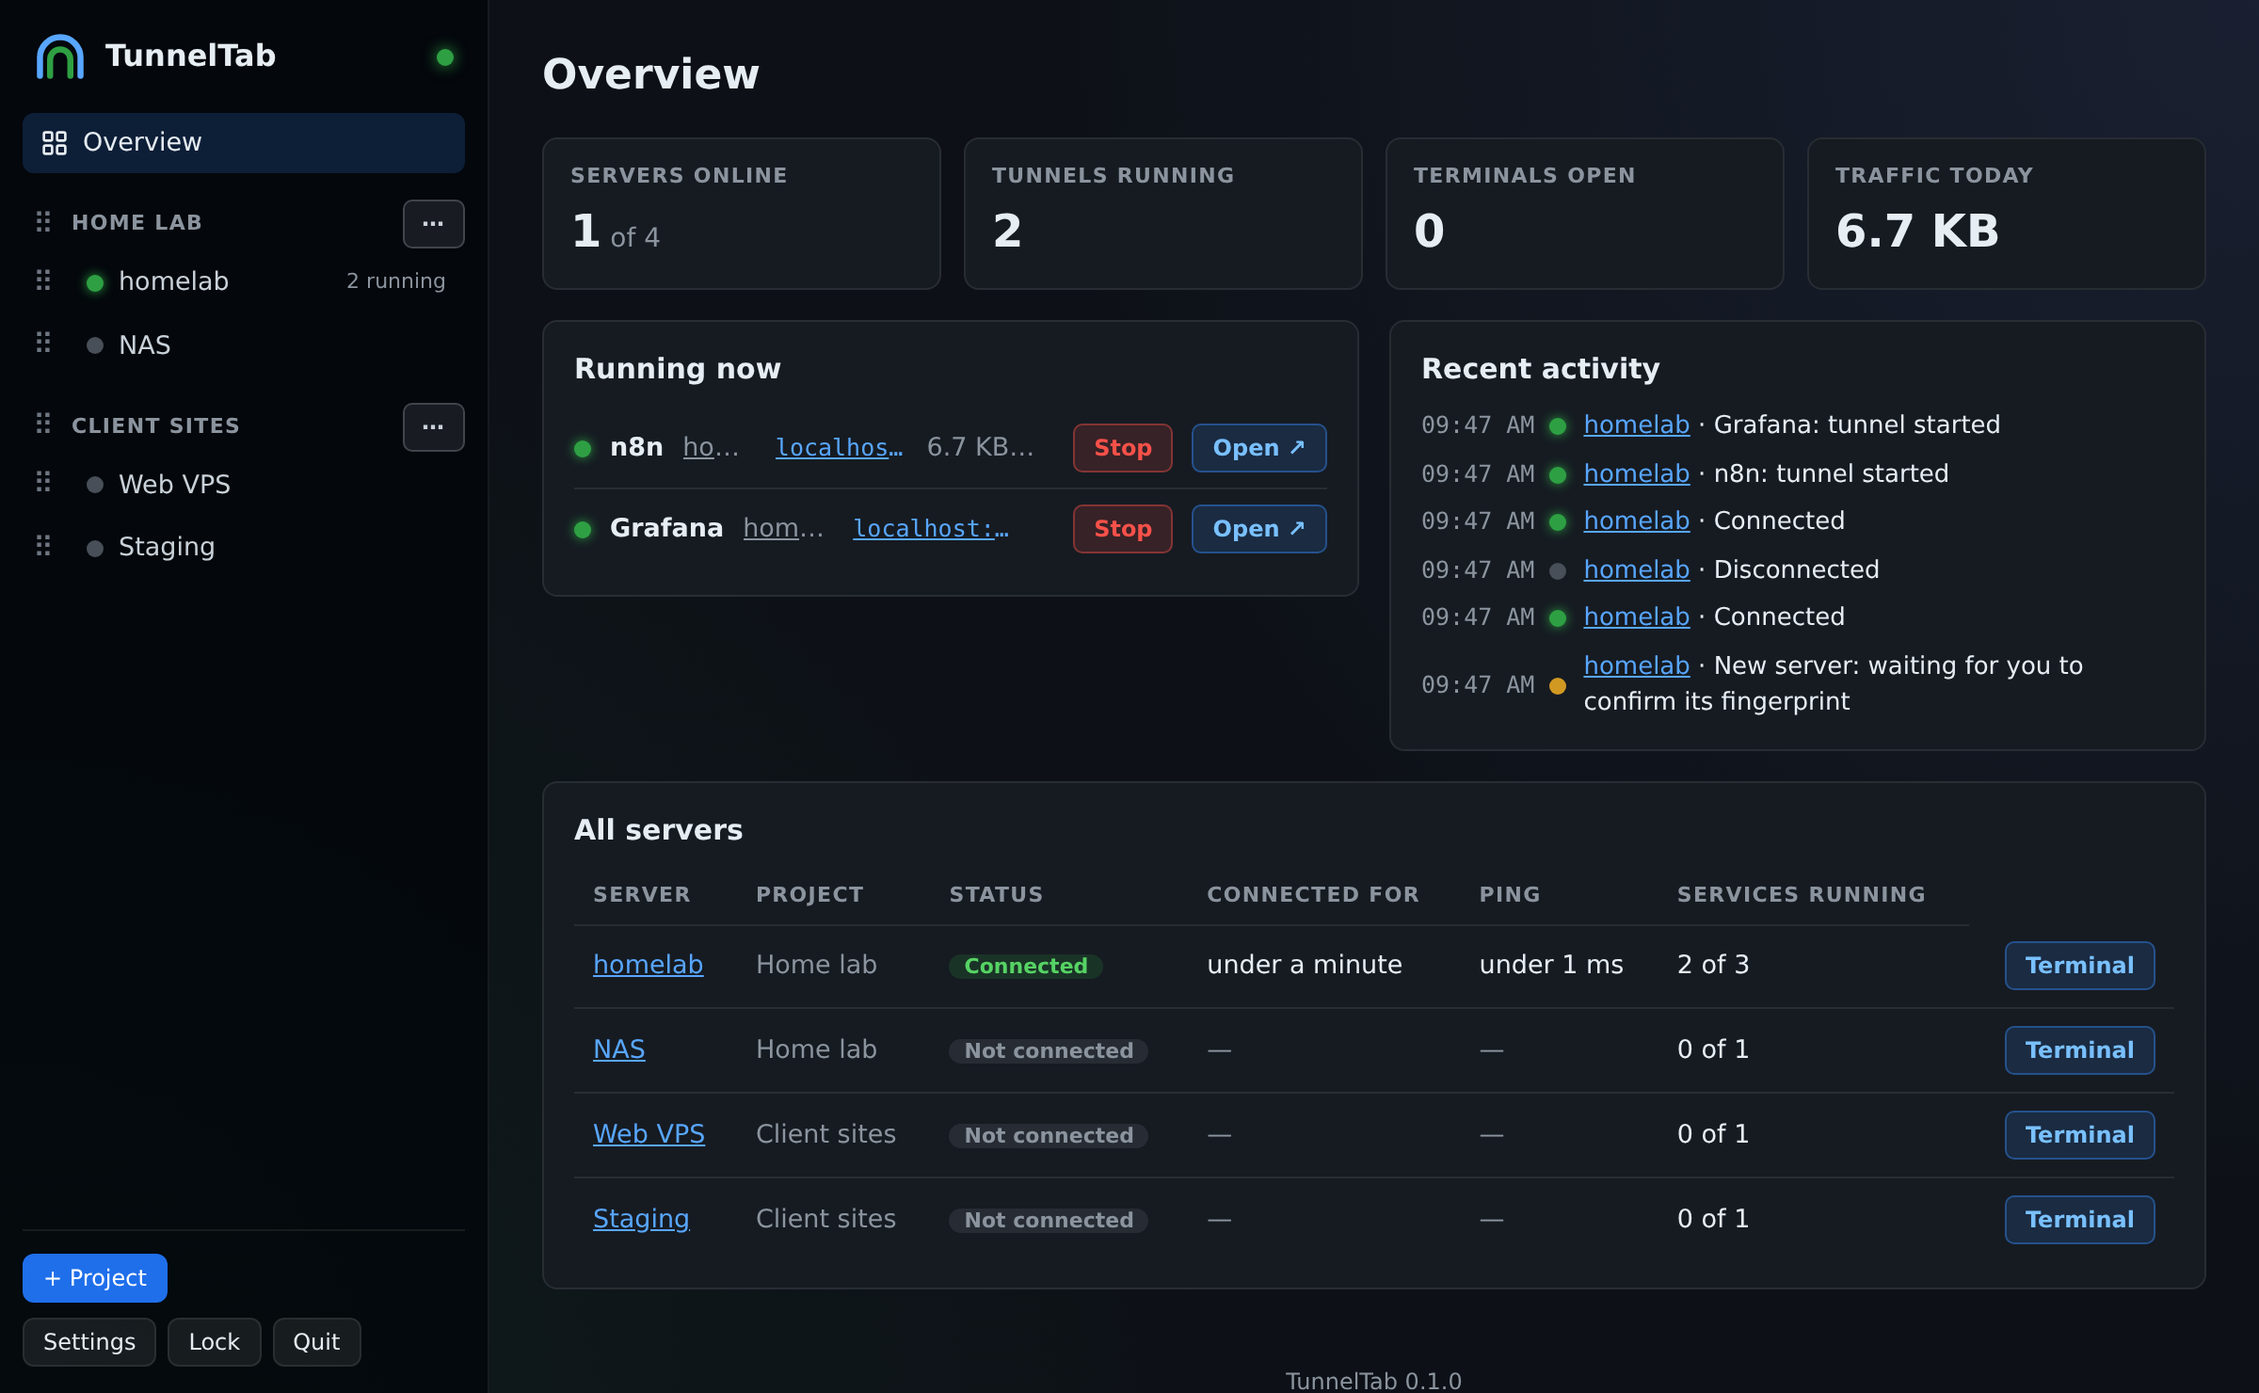
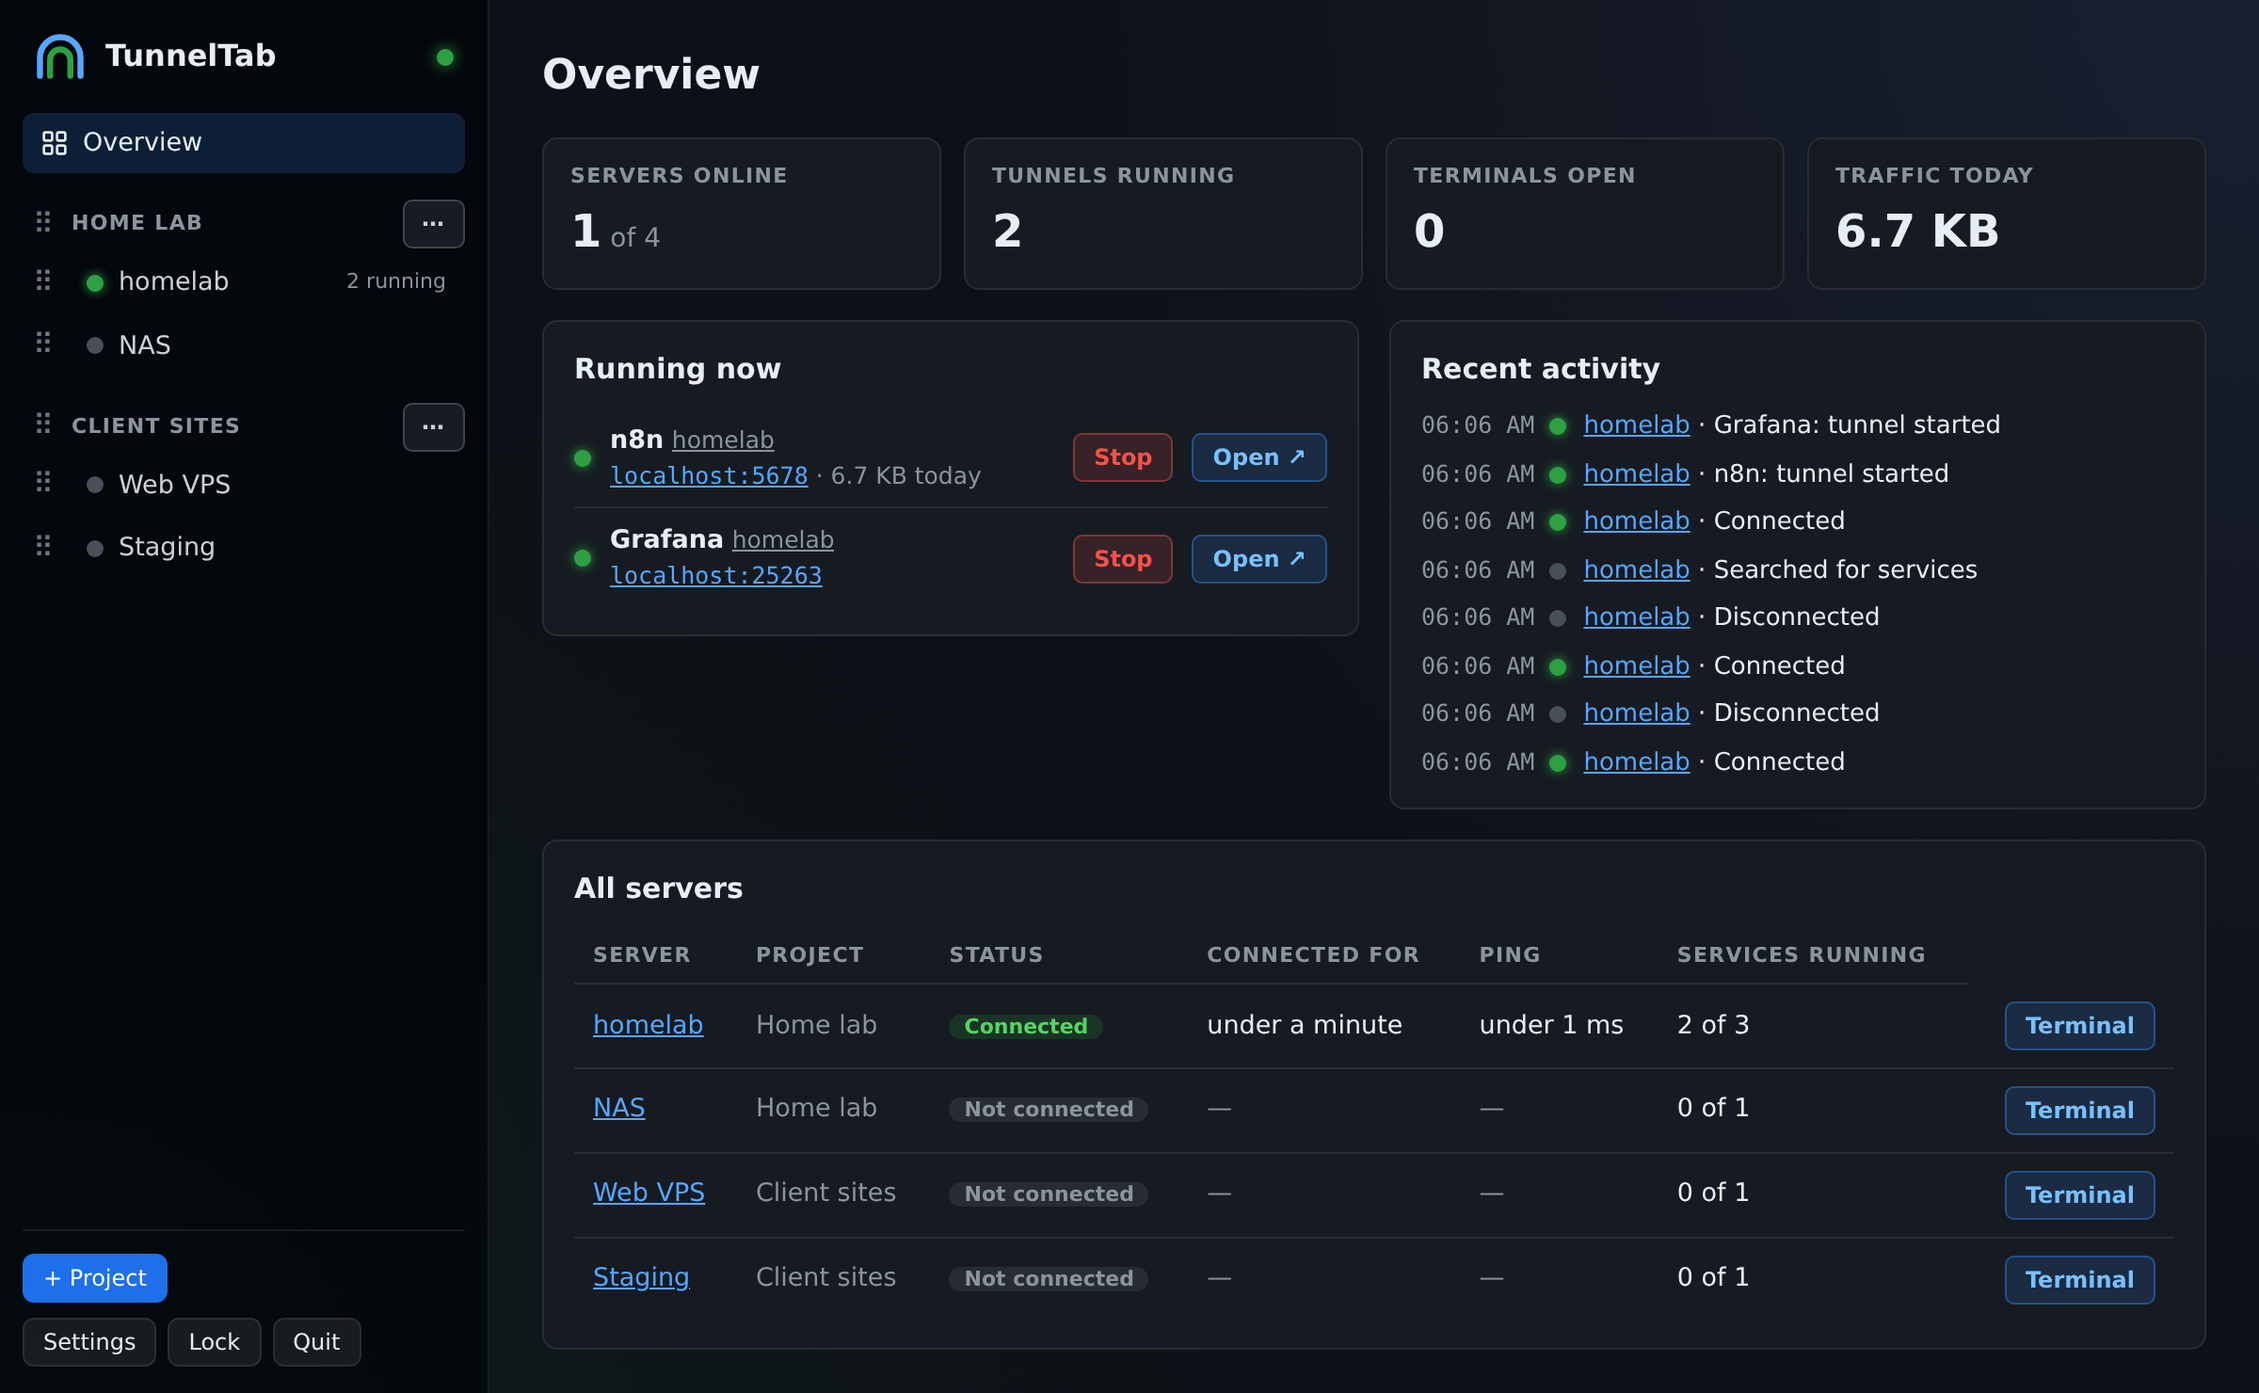
Refresh the README and fix the Running now rows
README: current screenshots (0.6.0, Find services added; extras folded
away), nine feature cards, health row in the security table matches
Connect. The screenshot script takes the version from CHANGELOG.md and
adds Grafana and Portainer through Find services.

Overview -> Running now shows the address and traffic on a second line
instead of cutting them off.

diff --git a/tests/e2e/readme-shots.js b/tests/e2e/readme-shots.js
@@ -40,8 +40,10 @@ function start(cmd, args) {
 (async () => {
   const tmp = fs.mkdtempSync(path.join(os.tmpdir(), "tunneltab-shots-"));
   const exe = process.platform === "win32" ? ".exe" : "";
+  // Shown in the footer: the latest released version in CHANGELOG.md.
+  const version = fs.readFileSync(path.join(repo, "CHANGELOG.md"), "utf8").match(/^## \[(\d+\.\d+\.\d+)\]/m)[1];
   for (const [out, pkg] of [["tunneltab", "./cmd/tunneltab"], ["fakessh", "./internal/devtools/fakessh"]]) {
-    execFileSync("go", ["build", "-ldflags", "-X main.version=0.1.0", "-o", path.join(tmp, out + exe), pkg], { cwd: repo, stdio: "inherit" });
+    execFileSync("go", ["build", "-ldflags", "-X main.version=" + version, "-o", path.join(tmp, out + exe), pkg], { cwd: repo, stdio: "inherit" });
   }
   const fake = start(path.join(tmp, "fakessh" + exe), ["-demo", "-port", "2222"]);
   const [, webPort] = await fake.waitFor(/remote port (\d+)/);
@@ -77,14 +79,12 @@ function start(cmd, args) {
     const web = await call("POST", "/servers", { projectId: clients.id, name: "Web VPS", host: "vps1.example.com", port: 22, username: "deploy", auth: { type: "keyFile", keyPath: "keys/web-vps_ed25519" } });
     const staging = await call("POST", "/servers", { projectId: clients.id, name: "Staging", host: "staging.example.com", port: 2200, username: "deploy", auth: { type: "agent" } });
     const n8n = await call("POST", "/services", { serverId: homelab.id, label: "n8n", remotePort: Number(webPort), localPort: 5678 });
-    const grafana = await call("POST", "/services", { serverId: homelab.id, label: "Grafana", remotePort: 3000, localPort: 3000 });
     await call("PUT", `/servers/${homelab.id}/health`, { enabled: true });
     await call("PUT", `/servers/${homelab.id}/notes`, { notes: "Backups run nightly at 02:00 (restic → offsite).\nPortainer admin login is in the password manager.\nReboot window: Sunday 04:00." });
-    await call("POST", "/services", { serverId: homelab.id, label: "Portainer", remotePort: 9443, protocol: "https" });
     await call("POST", "/services", { serverId: nas.id, label: "File browser", remotePort: 8080 });
     await call("POST", "/services", { serverId: web.id, label: "Admin panel", remotePort: 8080, path: "/admin" });
     await call("POST", "/services", { serverId: staging.id, label: "Analytics", remotePort: 8000 });
-    return { homelab: homelab.id, n8n: n8n.id, grafana: grafana.id };
+    return { homelab: homelab.id, n8n: n8n.id };
   }, webPort);
   await page.getByRole("heading", { name: "Client sites" }).waitFor();
 
@@ -97,6 +97,20 @@ function start(cmd, args) {
   await shot(page, "fingerprint");
   await page.getByRole("button", { name: "Trust and connect" }).click();
   await page.getByText("Connected to homelab.").waitFor();
+
+  // Find services: Grafana and Portainer are added from what the demo server
+  // runs (n8n is already added, on the demo web app's port).
+  await page.locator(".page-tabs").getByRole("link", { name: /Services/ }).click();
+  await page.getByRole("button", { name: "Find services…" }).click();
+  await page.getByRole("dialog").getByRole("button", { name: "Find services" }).click();
+  const found = page.getByRole("dialog");
+  await found.getByRole("heading", { name: "Services found on homelab" }).waitFor();
+  await clearToasts();
+  await page.mouse.move(0, 0);
+  await shot(page, "find-services");
+  await found.getByLabel("Add port 5678", { exact: true }).uncheck(); // n8n is there already
+  await found.getByRole("button", { name: "Add selected" }).click();
+  await page.locator(".service", { hasText: "Portainer" }).waitFor();
 
   // Two running tunnels (Services tab), then the server page and the Overview.
   await page.locator(".page-tabs").getByRole("link", { name: /Services/ }).click();

diff --git a/web/static/js/app.js b/web/static/js/app.js
@@ -627,22 +627,27 @@ function problemText(st) {
   return `couldn't connect${st.error ? ": " + st.error : "."}`;
 }
 
+/** Running now: what runs and where on the first line, details below. */
+const runningText = (title, details) =>
+  h("div", { class: "running-text" }, h("div", {}, title), h("div", { class: "muted" }, details));
+
 function renderRunningNow() {
   const d = state.data;
   const rows = [];
   for (const svc of [...d.services].sort(byOrder)) {
     const fwd = state.forwards.get(svc.id);
     if (!fwd) continue;
+    const traffic = todayText(trafficOf([svc.id]));
     const open = h("button", { class: "chip open" }, "Open ↗");
     open.addEventListener("click", () => openService(svc, open));
     rows.push(h("li", { class: "list-row" },
       h("span", { class: ["dot", fwd.state === "active" ? "connected" : fwd.state] }),
-      h("strong", {}, svc.label),
-      h("a", { class: "muted", href: serverHref(svc.serverId, "services") }, serverName(svc.serverId)),
-      fwd.state === "active"
-        ? h("a", { class: "mono", href: serviceURL(svc, fwd), target: "_blank", rel: "noopener noreferrer" }, `localhost:${fwd.localPort}`)
-        : h("span", { class: "muted" }, STATE_TEXT[fwd.state] || fwd.state),
-      h("span", { class: "muted" }, todayText(trafficOf([svc.id]))),
+      runningText(
+        [h("strong", {}, svc.label), " ", h("a", { class: "muted", href: serverHref(svc.serverId, "services") }, serverName(svc.serverId))],
+        [fwd.state === "active"
+          ? h("a", { class: "mono", href: serviceURL(svc, fwd), target: "_blank", rel: "noopener noreferrer" }, `localhost:${fwd.localPort}`)
+          : STATE_TEXT[fwd.state] || fwd.state,
+        traffic && ` · ${traffic}`]),
       h("span", { class: "grow" }),
       h("button", { class: "chip stop", onclick: () => stopService(svc) }, "Stop"),
       open));
@@ -651,9 +656,9 @@ function renderRunningNow() {
     const view = allViews().find((v) => v.terminalId === t.id);
     rows.push(h("li", { class: "list-row" },
       h("span", { class: "dot connected" }),
-      h("strong", {}, "Terminal"),
-      h("a", { class: "muted", href: serverHref(t.serverId) }, serverName(t.serverId)),
-      h("span", { class: "muted" }, `opened ${clock(t.openedAt)}`),
+      runningText(
+        [h("strong", {}, "Terminal"), " ", h("a", { class: "muted", href: serverHref(t.serverId) }, serverName(t.serverId))],
+        `opened ${clock(t.openedAt)}`),
       h("span", { class: "grow" }),
       view
         ? h("button", { class: "chip open", onclick: () => showTerminal(t.serverId, view) }, "Show")

diff --git a/web/static/app.css b/web/static/app.css
@@ -492,6 +492,9 @@ a.chip { text-decoration: none; display: inline-block; }
 .list-row { flex-wrap: nowrap; }
 .list-row > * { flex: none; }
 .list-row > .grow { flex: 1; }
+.list-row > .running-text { flex: 0 1 auto; min-width: 0; line-height: 1.4; }
+.running-text > div { overflow: hidden; text-overflow: ellipsis; white-space: nowrap; }
+.running-text .muted { font-size: 12.5px; }
 .list-row > a, .list-row > span:not(.dot):not(.pill):not(.grow) { flex: 0 1 auto; min-width: 0; overflow: hidden; text-overflow: ellipsis; white-space: nowrap; }
 
 /* --- Terminal views (termview.js): the terminal page and the dashboard ---- */

diff --git a/README.md b/README.md
@@ -17,11 +17,13 @@ A portable SSH terminal and web-UI launcher for your own VPSs.<br>
 [![License: MIT](https://img.shields.io/badge/license-MIT-blue.svg)](LICENSE)
 [![Go](https://img.shields.io/badge/built%20with-Go-00ADD8?logo=go&logoColor=white)](https://go.dev)
 
-[Features](#-features) · [Screenshots](#-screenshots) · [Quick start](#-quick-start) · [Security](#-security) · [FAQ](#-faq) · [User guide](docs/USER_GUIDE.md)
+[Features](#-features) · [Screenshots](#-screenshots) · [Quick start](#-quick-start) · [Security](#-security) · [FAQ](#-faq) · [User guide](docs/USER_GUIDE.md) · [Changelog](CHANGELOG.md)
 
 <br>
 
 <img src="docs/images/dashboard.png" alt="TunnelTab Overview: sidebar with projects and servers; totals, running tunnels, recent activity and all servers" width="900">
+
+<sub><b>Overview</b>: what's online, what's running and what just happened, across all your servers.</sub>
 
 </div>
 
@@ -35,7 +37,7 @@ means remembering `ssh -L 5678:localhost:5678 …` commands, keeping terminal
 windows open, and starting over after every Wi-Fi drop.
 
 **TunnelTab turns all of that into buttons.** Add your servers once, then
-click **Open ↗** to reach a web app or **Terminal ↗** to get a shell, right
+click **Open ↗** to reach a web app or **+ New terminal** to get a shell, right
 in your browser.
 
 ## ✨ Features
@@ -44,24 +46,47 @@ in your browser.
 <tr>
 <td width="33%" valign="top">
 
-### 🖥 Terminal in a tab
-A real SSH shell in your browser. Click a server, get a terminal. Open as
-many as you like.
+### 🖥 Terminals in the page
+Real SSH shells inside the dashboard: several per server, **Split** side
+by side, or **Pop out** to their own tab. They reconnect by themselves
+after a network drop.
 
 </td>
 <td width="33%" valign="top">
 
 ### 🚀 One-click web UIs
-Click **Open** on a service. TunnelTab starts the SSH tunnel and opens the
-page for you. **Find services** lists the web apps a server runs, so you
-don't need to know their ports.
+Click **Open ↗** on a service. TunnelTab starts the SSH tunnel and opens
+the page for you, on `localhost` only.
 
 </td>
 <td width="33%" valign="top">
 
+### 🔎 Find services
+Don't know the port? **Find services** lists the web apps a server runs
+(n8n, Grafana, Portainer, Home Assistant…) and adds the ones you tick.
+
+</td>
+</tr>
+<tr>
+<td valign="top">
+
+### 📊 See how a server is doing
+Ping, uptime, reconnects and the traffic through each tunnel. Click
+**Connect** to see CPU load, memory and disk use live.
+
+</td>
+<td valign="top">
+
 ### 🗂 Organised by project
-Group servers and their services. Drag (or use the keyboard) to reorder
-them.
+Group servers into projects and keep notes on each one (stored
+encrypted). Drag, or use the keyboard, to reorder.
+
+</td>
+<td valign="top">
+
+### 🔄 Stays connected
+Tunnels and terminals recover after Wi-Fi drops or sleep. Auto-lock
+protects a PC you walk away from.
 
 </td>
 </tr>
@@ -82,9 +107,9 @@ and carry on.
 </td>
 <td valign="top">
 
-### 🔄 Stays connected
-Tunnels reconnect by themselves after network drops or sleep. Auto-lock
-protects an unattended PC.
+### ✍ Signed updates
+**Update now** installs a new version in one click, only if it's signed
+by TunnelTab. It never checks by itself.
 
 </td>
 </tr>
@@ -96,38 +121,55 @@ protects an unattended PC.
 
 <table>
 <tr>
-<td width="50%"><img src="docs/images/server.png" alt="A server's page: connection details and its apps"></td>
-<td width="50%"><img src="docs/images/services.png" alt="A server's Services tab: start, stop, open and reorder web apps"></td>
+<td width="50%"><img src="docs/images/server.png" alt="A server's page: connection, services, health, traffic and notes"></td>
+<td width="50%"><img src="docs/images/terminal.png" alt="An SSH terminal inside the dashboard"></td>
 </tr>
 <tr>
-<td align="center"><b>Server page</b><br><sub>Connection details and apps, in tabs</sub></td>
+<td align="center"><b>Server page</b><br><sub>Connection, services, health, traffic and notes</sub></td>
+<td align="center"><b>Terminal</b><br><sub>A real SSH shell in the page; split it or pop it out</sub></td>
+</tr>
+<tr>
+<td><img src="docs/images/find-services.png" alt="Find services: web apps found on a server, ready to add"></td>
+<td><img src="docs/images/services.png" alt="A server's Services tab: start, stop, open and reorder web apps"></td>
+</tr>
+<tr>
+<td align="center"><b>Find services</b><br><sub>Recognised apps are ticked already</sub></td>
 <td align="center"><b>Services</b><br><sub>Start, stop, open and reorder</sub></td>
 </tr>
+</table>
+
+<details>
+<summary><b>More screenshots</b>: fingerprint check, adding a server, settings, first run, unlock</summary>
+<br>
+
+<table>
 <tr>
-<td width="50%"><img src="docs/images/terminal.png" alt="In-browser SSH terminal"></td>
 <td width="50%"><img src="docs/images/fingerprint.png" alt="Confirming a new server's fingerprint"></td>
+<td width="50%"><img src="docs/images/add-server.png" alt="Adding a server"></td>
 </tr>
 <tr>
-<td align="center"><b>Terminal</b><br><sub>A real SSH shell, right in the dashboard (or popped out)</sub></td>
 <td align="center"><b>Fingerprint check</b><br><sub>Nothing is sent until you confirm the server</sub></td>
-</tr>
-<tr>
-<td><img src="docs/images/add-server.png" alt="Adding a server"></td>
-<td><img src="docs/images/settings.png" alt="Settings"></td>
-</tr>
-<tr>
 <td align="center"><b>Add a server</b><br><sub>Agent, stored key, key file or password</sub></td>
-<td align="center"><b>Settings</b><br><sub>Auto-lock, master password, confirmed servers</sub></td>
 </tr>
 <tr>
+<td><img src="docs/images/settings.png" alt="Settings, Servers tab: health and fingerprint per server"></td>
 <td><img src="docs/images/setup.png" alt="First run"></td>
-<td><img src="docs/images/unlock.png" alt="Unlock"></td>
 </tr>
 <tr>
+<td align="center"><b>Settings</b><br><sub>Health and fingerprint for each server</sub></td>
 <td align="center"><b>First run</b><br><sub>Choose a master password</sub></td>
+</tr>
+<tr>
+<td><img src="docs/images/unlock.png" alt="Unlock"></td>
+<td></td>
+</tr>
+<tr>
 <td align="center"><b>Unlock</b><br><sub>Everything stays encrypted until you do</sub></td>
+<td></td>
 </tr>
 </table>
+
+</details>
 
 <sub>Screenshots use made-up demo data (see [docs/images](docs/images/README.md)).</sub>
 
@@ -143,7 +185,7 @@ protects an unattended PC.
    - **Windows:** double-click `tunneltab.exe`
    - **Linux:** `./tunneltab-linux-amd64`
 3. **Set up:** your browser opens the dashboard. Create a master password,
-   add a server, and click **Terminal ↗** or **Open ↗**.
+   add a server, and click **+ New terminal** or **Open ↗**.
 
 > [!NOTE]
 > On Windows, SmartScreen may warn you because the app isn't code-signed.
@@ -176,7 +218,7 @@ OpenSSH, sshpass, Node.js or a browser extension. Details:
 | 🔒 **Auto-lock** | The vault locks after inactivity (15 min by default) and the key is wiped from memory. |
 | 📡 **No phoning home** | TunnelTab contacts only your servers, plus GitHub when *you* click **Check for updates** or **Update now**. |
 | ✍ **Signed updates** | **Update now** installs a new version only if it's signed with TunnelTab's release key. Your data folder is never touched. |
-| 🩺 **Opt-in server health** | Off by default. Switched on per server, it reads load, memory and disk with one read-only command, only over a connection that is already open. |
+| 🩺 **Health only when you ask** | Load, memory and disk are read with one fixed, read-only command, only after you click **Connect** or tick the server in Settings. **Find services** runs another read-only command, only when you click it. |
 
 Read [SECURITY.md](docs/SECURITY.md) for the full threat model, including
 what TunnelTab does **not** protect against, and

diff --git a/CHANGELOG.md b/CHANGELOG.md
@@ -6,6 +6,11 @@ and versions follow [Semantic Versioning](https://semver.org/).
 
 ## [Unreleased]
 
+### Fixed
+- **Overview → Running now** no longer cuts the server name, address and
+  traffic short on a normal-width window: each row shows what runs and
+  where, with the address and today's traffic on a second line.
+
 ## [0.6.0] - 2026-10-02
 
 ### Changed
